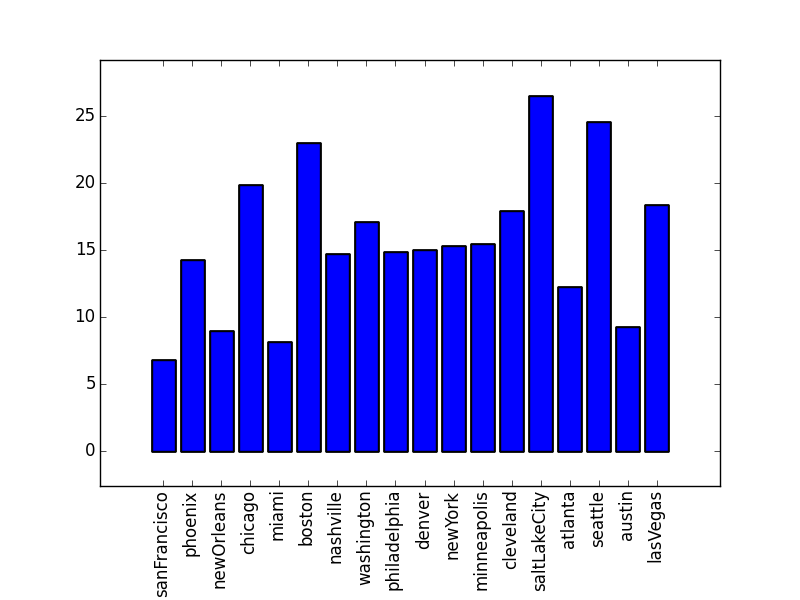
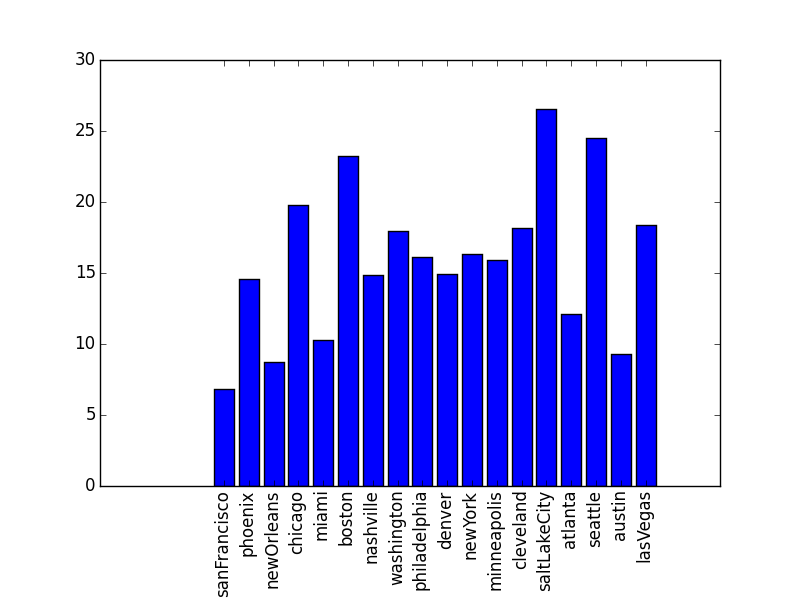
weather analysis complete

diff --git a/thinkful/Unit3/weather/analysis.py b/thinkful/Unit3/weather/analysis.py
@@ -9,6 +9,7 @@ import sqlite3 as lite
 import pandas as pd
 from scipy import stats
 import matplotlib.pyplot as plt
+import numpy as np
 
 # Connect to the database
 con = lite.connect('./db/weather.db')
@@ -39,16 +40,59 @@ plt.bar(range(len(swings)), swings.values(), align="center")
 plt.xticks(range(len(swings)), list(swings.keys()), rotation="vertical")
 plt.subplots_adjust(bottom=0.19)
 plt.savefig('./plots/swings.png')
+plt.clf()
 
 # Who has the biggest swing?
+swing_max_city = max(swings, key=swings.get)
+swing_max_value = swings[swing_max_city]
+swing_max = (swing_max_city, swing_max_value)
 
 # Who has the larges variance?
-var_max = max(variances, key=variances.get) # Seattle, 45.88
+var_max_city = max(variances, key=variances.get) 
+var_max_value = variances[var_max_city]
+var_max = (var_max_city, var_max_value)
+# Answer: Seattle
+
+# Plot the distribution of the difference from the mean for Seattle
+# Create a list of all the differences
+seattle_diff = []
+for temp in maxTemps['seattle']:
+	seattle_diff.append(means['seattle'] - temp)
+
+seattle_diff_series = pd.Series(seattle_diff) # Convert the list in to a Series so that you can plot it
+
+plt.figure()
+qq_norm = stats.probplot(seattle_diff_series, dist='norm', plot=plt)
+plt.savefig('./plots/seattle_difference_plot.png')
+plt.clf()
 
 # What was the highest temperature overall and where was it?
+temp_max_value = 0
+temp_max_city = ''
+for city in ranges:
+	if ranges[city][1] > temp_max_value:
+		temp_max_value = ranges[city][1]
+		temp_max_city = city
+temp_max = (temp_max_city, temp_max_value)
 
-# Try and fit each temperature range to the normal distribution?
+# Plot a histogram of every city with temps rounded to the nearest degree F
+# Convert the objects to numeric (otherwise we can't round them)
+df = maxTemps.convert_objects(convert_numeric = True)
+df = np.round(df, 0)
 
-# What patterns are there in the data?
+# Now, create the histogram for each city
+for city in cities:
+	plt.figure()
+	df.hist(column = city)
+	plt.subplots_adjust(bottom = 0.15)
+	plt.savefig('./plots/histograms/{}_histogram.png'.format(city))
+	plt.clf()
 
-# Histogram?
+# Create a QQ plot of all cities against the normal distribution
+for city in cities:
+	plt.figure()
+	qq_norm = stats.probplot(maxTemps[city], dist='norm', plot = plt)
+	plt.savefig('./plots/qq_plots/{}_qq.png'.format(city))
+	plt.clf()
+
+plt.close()

diff --git a/thinkful/Unit3/weather/README.md b/thinkful/Unit3/weather/README.md
@@ -1,0 +1,35 @@
+# Cloudy with a chance of data #
+I analyzed 30 days worth of maximum temperatures to answer the following questions: 
+
+1. Plot the temperature swings (difference between the maximum and minimum temperature) and document your results:
+
+Bar chart found here
+
+`In [69]: swing_max
+Out[69]: ('saltLakeCity', 26.54)`
+
+2. Who has the largest variance?
+
+`In [70]: var_max
+Out[70]: ('seattle', 47.4)`
+
+3. Take the city with the largest variance and plot the distribution of the difference from the mean. What does this tell you?
+
+The plot fits the normal distribution, with an identical R^2 value as the plot of the set of temperatures against the normal distribution. Which makes sense, beause this should always happen if you find a normally distributed set of data.
+
+4. What was the highest temperature overall, when and where was it?
+
+`In [71]: maxTemps['phoenix'].argmax()
+Out[71]: 30` (August 13, 2015)
+
+`In [73]: temp_max
+Out[73]: ('phoenix', 109.65)`
+
+5. Plot a histogram of every city with temps rounded to nearest degree F
+See this folder
+
+6. Create a QQ plot of all cities against the normal distribution
+Found here
+
+7. What patterns were found in the data?
+Pretty much all of the cities had normally distributed temperature data
